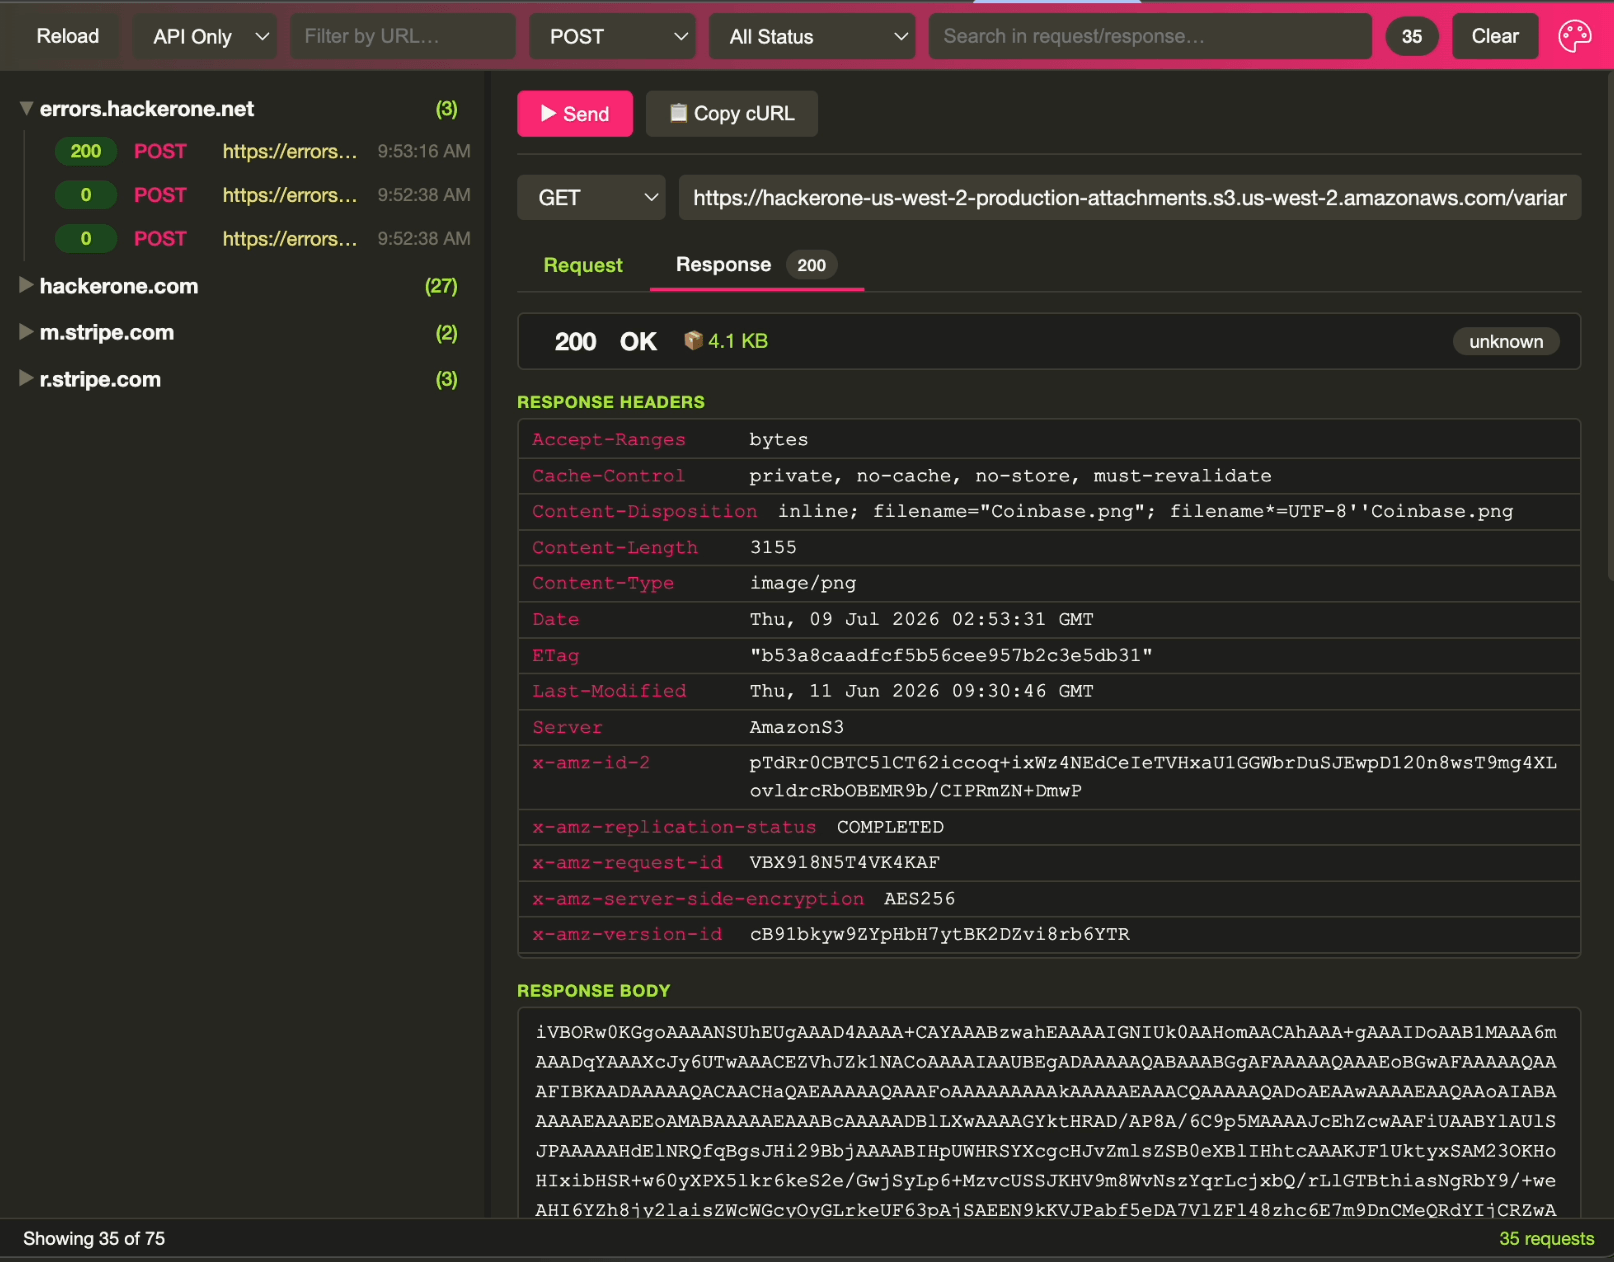
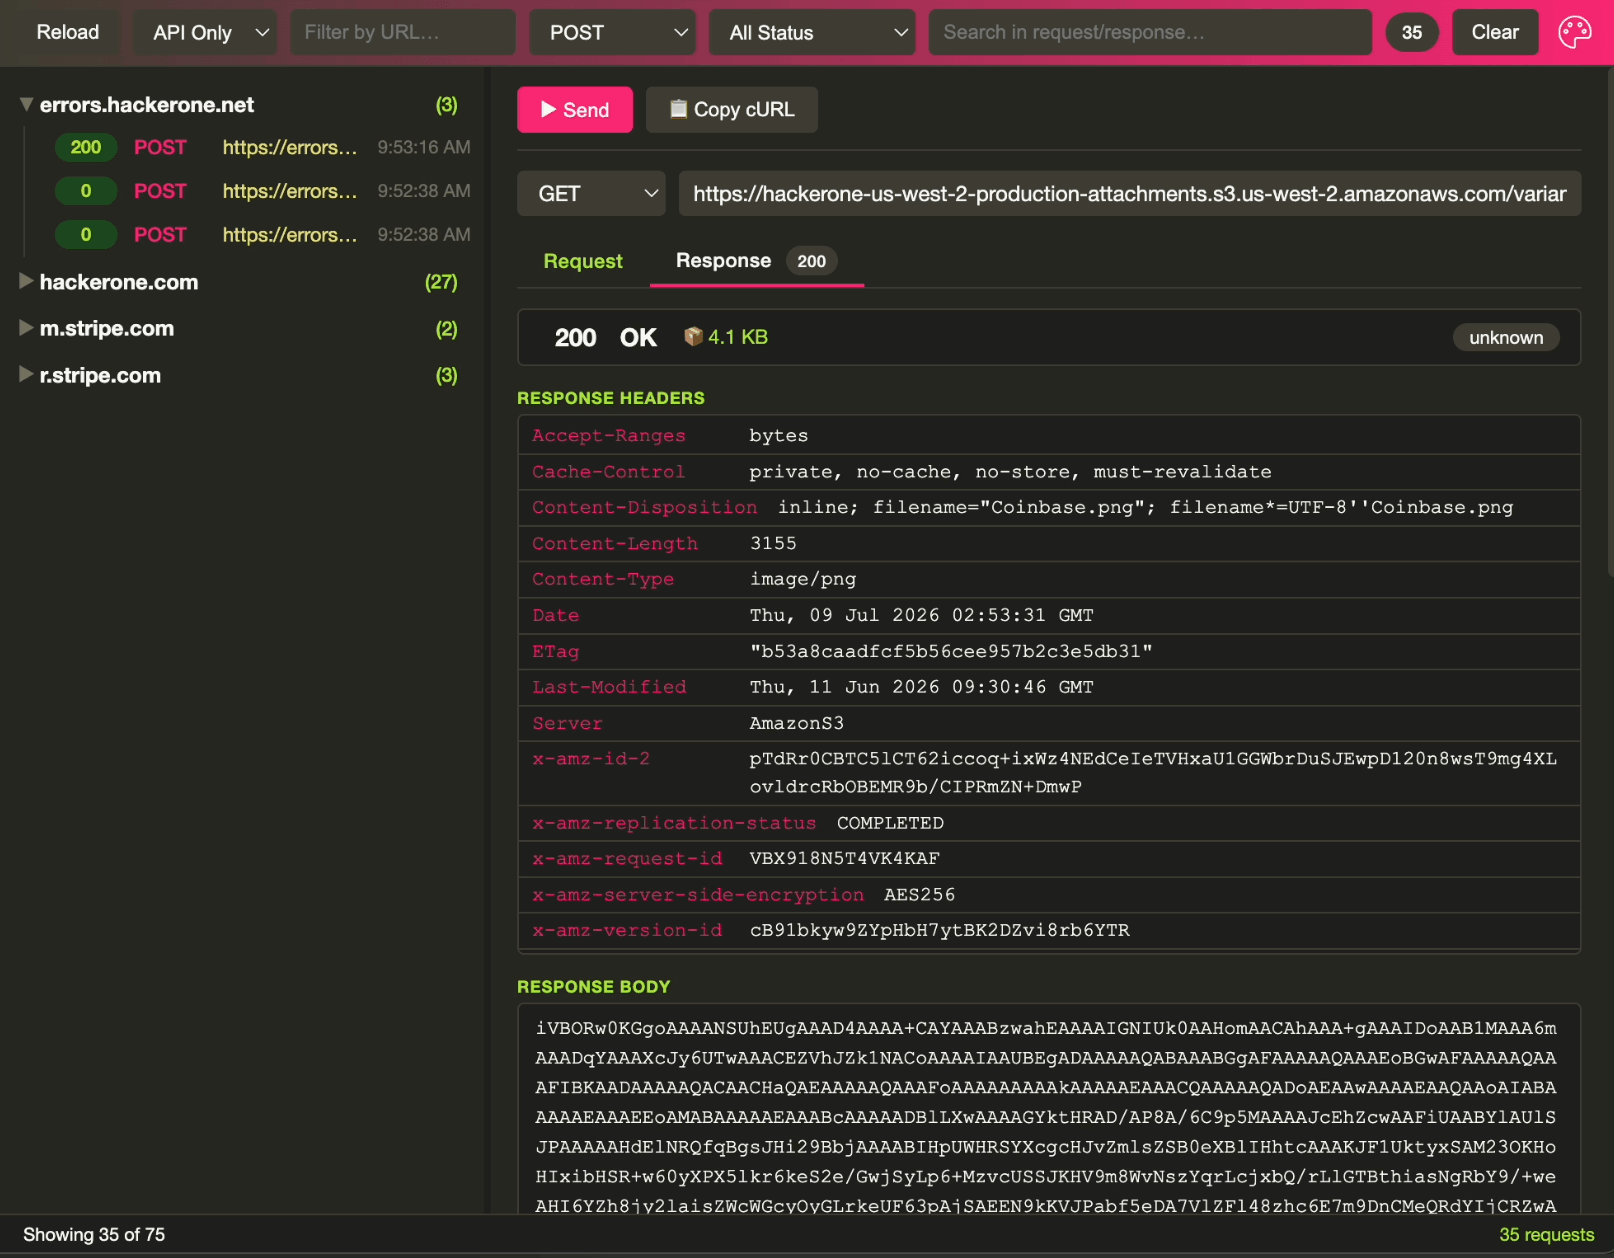
update

diff --git a/brutusuite/index.html b/brutusuite/index.html
@@ -134,6 +134,7 @@
 
             <ul class="nav-links" id="navLinks">
                 <li><a href="#features">Features</a></li>
+                <li><a href="#demo">Demo</a></li>
                 <li><a href="#install">Install</a></li>
                 <li><a href="#architecture">Architecture</a></li>
                 <li><a href="#contribute">Contribute</a></li>
@@ -205,13 +206,14 @@
 
                 <!-- Video 2: Edit & Replay -->
                 <div class="video-wrapper" data-video="2">
-                    <video autoplay muted loop playsinline preload="metadata">
+                    <!-- <span class="video-badge">✎ Replay</span> -->
+                    <!-- <div class="video-caption">Edit headers, body &amp; auth — then replay instantly</div> -->
+                    <video controls autoplay muted loop playsinline preload="metadata">
                         <source src="https://github.com/user-attachments/assets/ed3c7c29-96d2-4f76-9002-273b80564f0c"
                             type="video/mp4" />
                         Your browser does not support the video tag.
                     </video>
-                    <span class="video-badge">✎ Replay</span>
-                    <div class="video-caption">Edit headers, body &amp; auth — then replay instantly</div>
+                    
                     <span class="play-indicator is-playing"></span>
                 </div>
 

diff --git a/brutusuite/style.css b/brutusuite/style.css
@@ -1208,6 +1208,8 @@
             .terminal-body {
                 font-size: 0.65rem;
                 padding: 12px;
+                word-break: break-all;
+                text-align: left;
             }
             .video-grid {
                 gap: 18px;